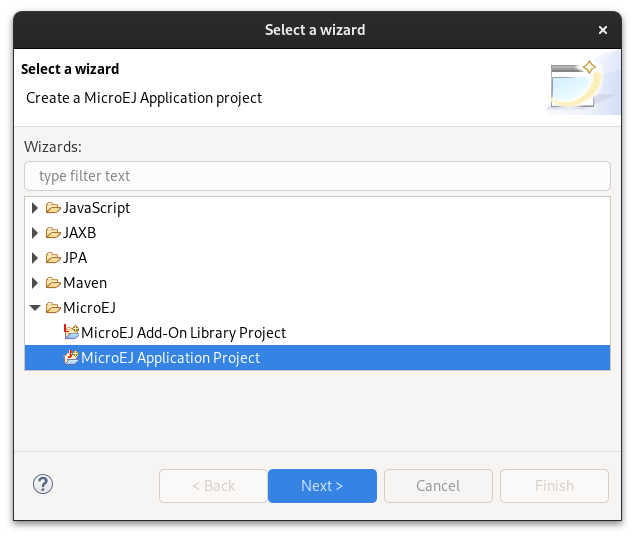
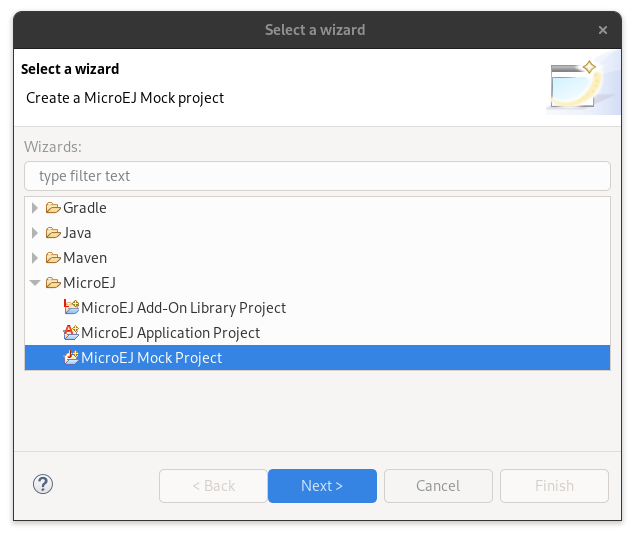
Add SDK6 mock project creation wizard.

diff --git a/SDK6UserGuide/createProject.rst b/SDK6UserGuide/createProject.rst
@@ -48,7 +48,7 @@ This chapter explains the different ways to create a new project.
       - Click on :guilabel:`Next` button.
       - Fill the group of the artifact to publish in the :guilabel:`Group` field.
       - Fill the version of the artifact to publish in the :guilabel:`Version` field.
-      - Select the module type among :guilabel:`Application` and :guilabel:`Addon-Library` in the drop-down list.
+      - Select the module type among :guilabel:`Application`, :guilabel:`Mock` and :guilabel:`Addon-Library` in the drop-down list.
       - If you selected :guilabel:`Application` module type, you can check :guilabel:`This is a kernel application` checkbox if your Application is a Kernel.
       - Click on :guilabel:`Finish` button.
       
@@ -108,7 +108,7 @@ This chapter explains the different ways to create a new project.
       - Select :guilabel:`MicroEJ` in :guilabel:`Generators` list on the left panel.
       - Fill the name of the project in the :guilabel:`Name` field.
       - Select the location of the project in the :guilabel:`Location` field.
-      - Select the module type among :guilabel:`Application` and :guilabel:`Addon-Library` buttons.
+      - Select the module type among :guilabel:`Application`, :guilabel:`Mock` and :guilabel:`Addon-Library` buttons.
       - If you selected :guilabel:`Application` module type, you can check :guilabel:`This is a kernel application` checkbox if your Application is a Kernel.
       - Fill the version of the artifact to publish in the :guilabel:`Version` field.
       - Fill the group of the artifact to publish in the :guilabel:`Group` field.
@@ -158,7 +158,7 @@ This chapter explains the different ways to create a new project.
       The creation of a project with Eclipse is done as follows:
       
       - Click on :guilabel:`File` > :guilabel:`New` > :guilabel:`Project...`.
-      - Select the project type :guilabel:`MicroEJ` > :guilabel:`MicroEJ Application Project` or :guilabel:`MicroEJ Add-onLibrary Project` and click on the :guilabel:`Next` button.
+      - Select the project type :guilabel:`MicroEJ` > :guilabel:`MicroEJ Application Project`, :guilabel:`MicroEJ Mock` or :guilabel:`MicroEJ Add-onLibrary Project` and click on the :guilabel:`Next` button.
       
       .. figure:: images/eclipse-create-microej-project-01.png
         :alt: Project Type Selection in Eclipse
@@ -250,6 +250,7 @@ Refer to the module type you want to build to configure your project:
 
 - :ref:`Application <sdk_6_create_project_configure_application>`
 - :ref:`Add-On Library <sdk_6_create_project_configure_addon_library>`
+- :ref:`Mock <sdk_6_create_project_configure_mock>`
 - :ref:`J2SE Library <sdk_6_create_project_configure_j2se_library>`
 
 
@@ -334,6 +335,22 @@ Add-On Library Project
 
     plugins {
         id("com.microej.gradle.addon-library") version "0.15.0"
+    }
+
+  .. note::
+    The ``java`` plugin must not be added since it is automatically applied by the MicroEJ plugin.
+
+Refer to the page :ref:`sdk6_module_natures` for a complete list of the available MicroEJ natures and their corresponding plugins.
+
+.. _sdk_6_create_project_configure_mock:
+
+Mock
+~~~~
+
+- Add the ``com.microej.gradle.mock`` plugin in the build script::
+
+    plugins {
+        id("com.microej.gradle.mock") version "0.15.0"
     }
 
   .. note::

diff --git a/SDK6UserGuide/limitations.rst b/SDK6UserGuide/limitations.rst
@@ -20,7 +20,7 @@ The SDK 6 allows to:
 
 Therefore, it does not support all the features of the SDK 5, especially:
 
-- Build of Foundation Libraries, Mocks, VEE Ports or any other component type except Applications and Add-On Libraries.
+- Build of Foundation Libraries, VEE Ports or any other component type except Applications, Add-On Libraries and Mocks.
 - Launch of some MicroEJ tools, such as the Local Deploy, the Serial to Socket Transmitter or the Kernel Metadata Generator.
 
 

diff --git a/VEEPortingGuide/mock.rst b/VEEPortingGuide/mock.rst
@@ -81,8 +81,7 @@ To create a new MicroEJ mock project:
 
    .. tab:: SDK 6
 
-      - :ref:`Create a J2SE Library project <sdk_6_create_project_configure_project>`,
-      - In the ``build.gradle.kts`` file, change the ``com.microej.gradle.j2se-library`` plugin to ``com.microej.gradle.mock``.
+      Follow the steps described in :ref:`SDK 6 User Guide - Create a Project <sdk_6_create_project>` depending on your IDE.
 
    .. tab:: SDK 5
 
